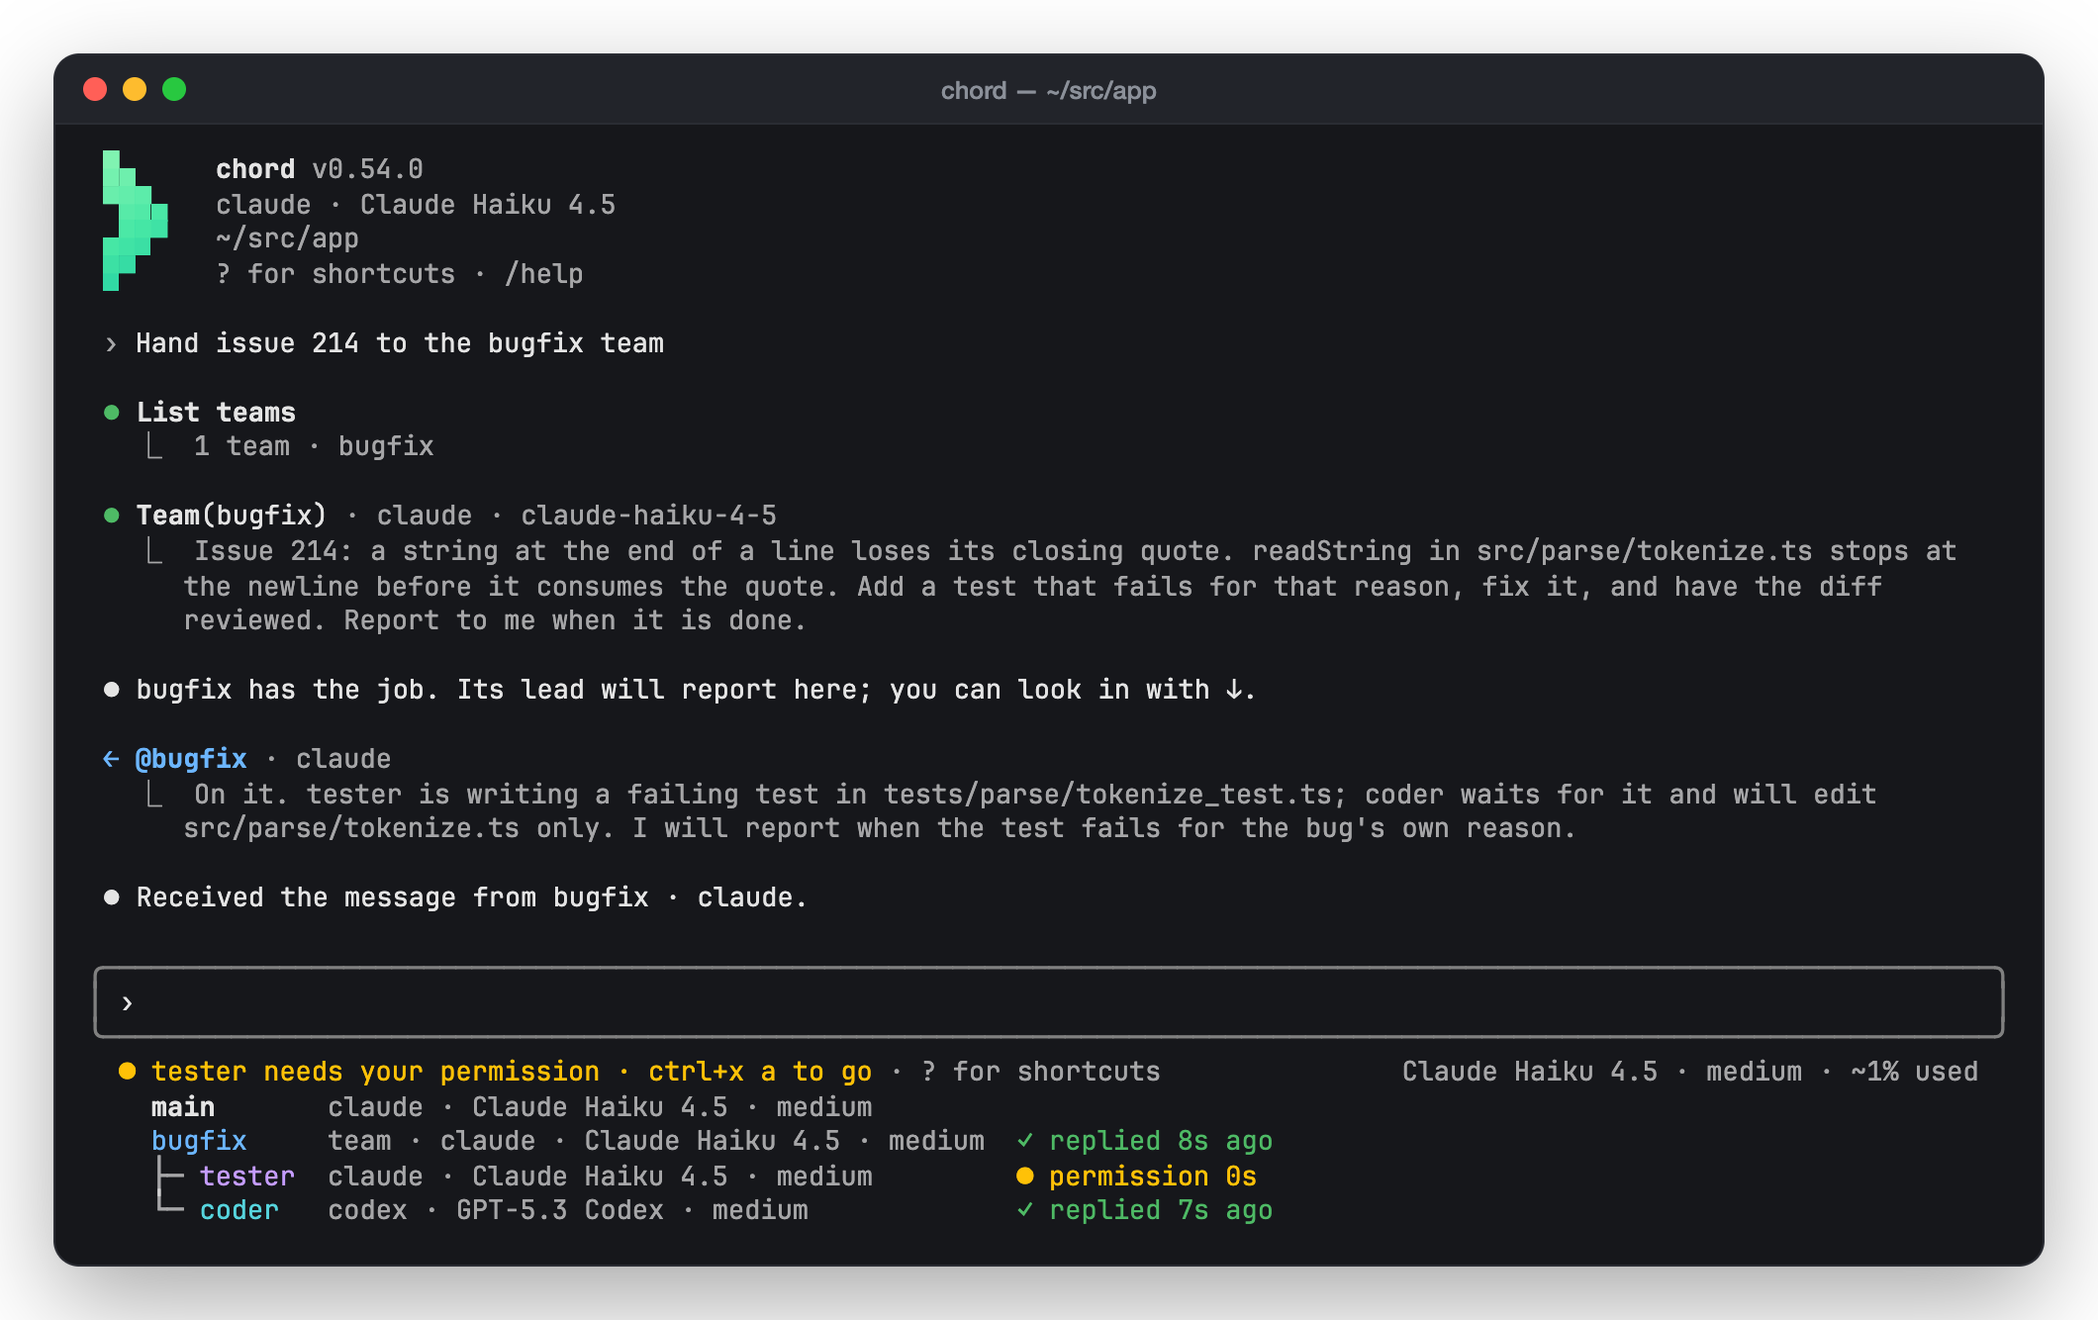
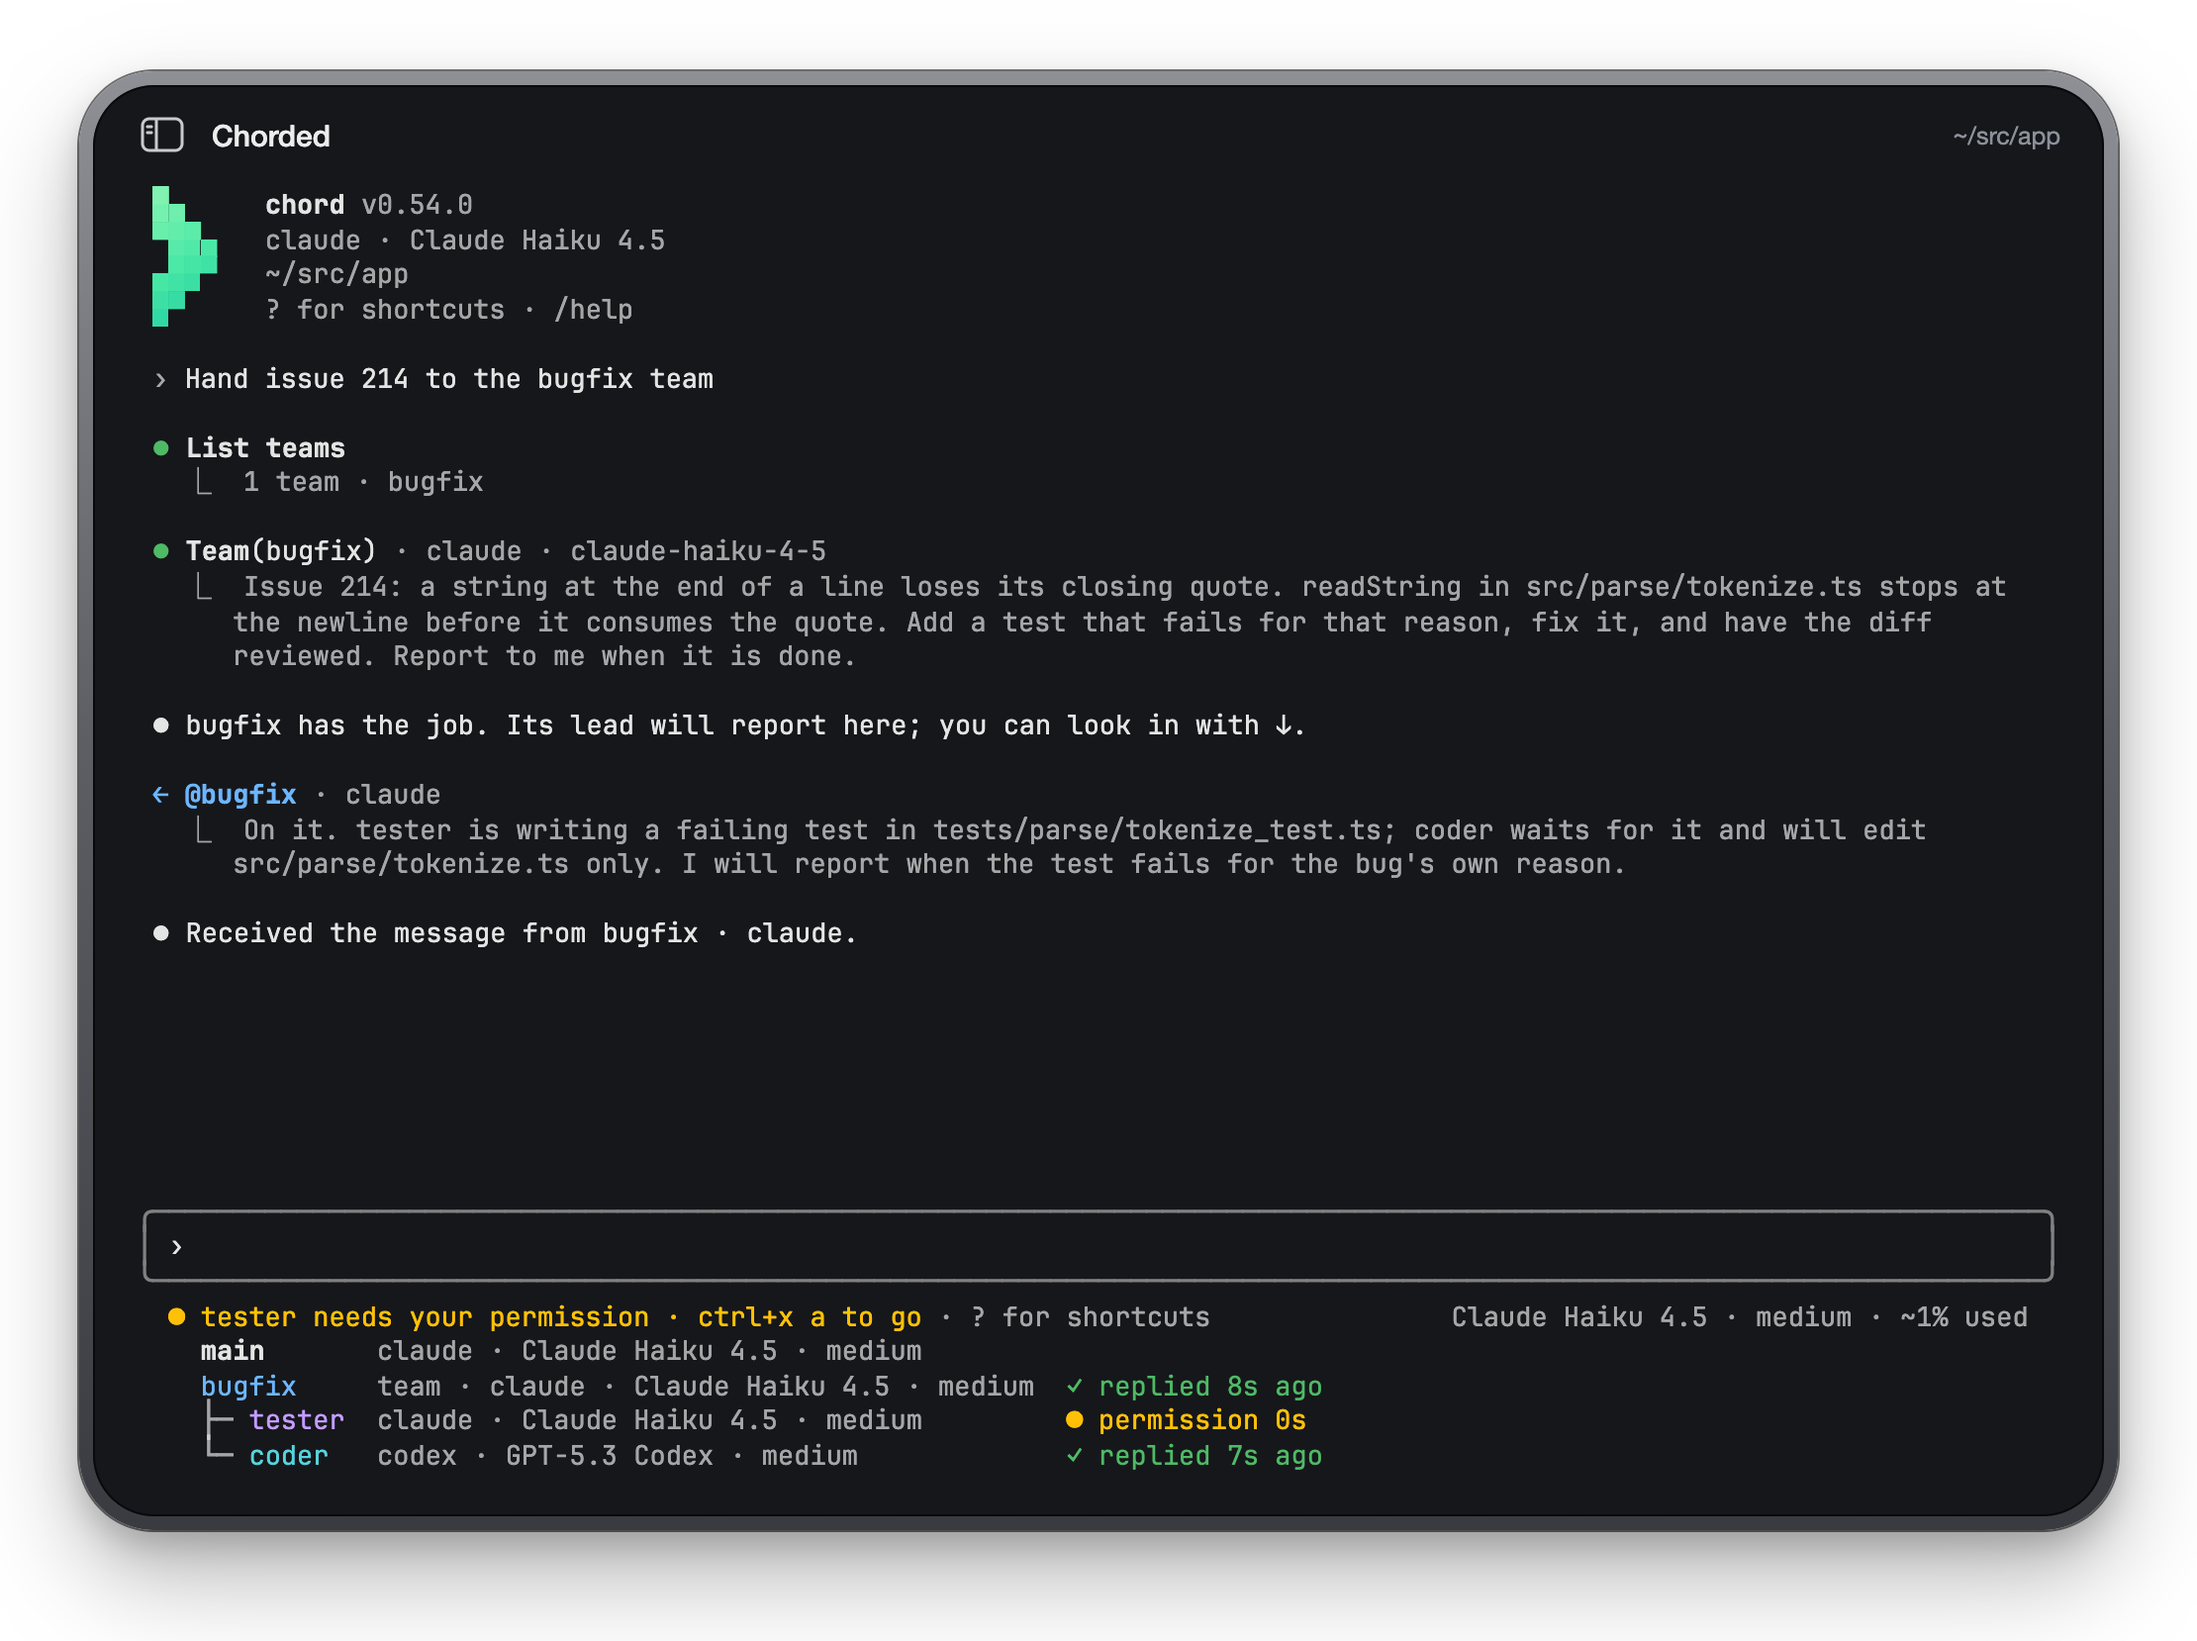
feat(scripts): draw the screenshots in a Chorded pane, all one size
Each shot is framed as Chorded's window, a metal rim around a dark pane
titled Chorded, and taken from a 120×37 terminal that chord lays out
itself, the fewest rows that hold the tallest shot whole, instead of
folding blank rows.

Changed region(s): [[0.0, 0.0307, 0.9962, 1.0]]

diff --git a/scripts/screenshots.ts b/scripts/screenshots.ts
@@ -3,13 +3,14 @@
  *
  *   bun run screenshots [name…]   rewrite docs/images/*.png, or those named
  *
- * Each shot runs chord from source in a tmux session of its own, 120×40, on
+ * Each shot runs chord from source in a tmux session of its own, `COLUMNS`
+ * × `ROWS`, on
  * the fake agent in tests/fixtures/, as `bun run chord:fake` does, types
  * what a person would, waits for the state the shot shows, and reads the
  * screen back with its colours (`capture-pane -e`). The frame is then drawn
- * in a terminal window in Chrome (puppeteer-core) through ansi_up and
- * captured at twice its size. Runs of blank rows above the transcript are
- * folded to one, so a shot is as tall as what it shows.
+ * in a Chorded terminal pane in Chrome (puppeteer-core) through ansi_up and
+ * captured at twice its size. chord lays the screen out itself, so every
+ * shot is the same size; `ROWS` is the fewest that hold the tallest whole.
  *
  * chord runs in a home of its own under a temporary directory, so nothing
  * of the person's settings, records or teams reaches a shot. There the
@@ -28,7 +29,6 @@ import { setTimeout as sleep } from 'node:timers/promises';
 import { AnsiUp } from 'ansi_up';
 import puppeteer from 'puppeteer-core';
 import { quote } from 'shell-quote';
-import stripAnsi from 'strip-ansi';
 
 /** What a shot does to the window before it is taken. */
 type Step =
@@ -141,6 +141,9 @@ const IMAGES = join(ROOT, 'docs', 'images');
 const CHROME =
   process.env['CHROME'] ??
   '/Applications/Google Chrome.app/Contents/MacOS/Google Chrome';
+/** The terminal's size; `proposal` is the tallest shot, and fits in this. */
+const COLUMNS = 120;
+const ROWS = 37;
 const SOCKET = `chord-screenshots-${String(process.pid)}`;
 
 /** The terminal's own colours behind and in front of chord. */
@@ -250,9 +253,9 @@ async function capture(shot: Shot): Promise<string> {
       '-s',
       'shot',
       '-x',
-      '120',
+      String(COLUMNS),
       '-y',
-      '40',
+      String(ROWS),
       `exec env ${quote([...env, ...chord])}`,
     );
     tmux('set', '-g', 'default-terminal', 'tmux-256color');
@@ -283,33 +286,14 @@ async function capture(shot: Shot): Promise<string> {
   }
 }
 
-/** Runs of two blank rows or more folded to one, and the ends trimmed. */
-function fold(lines: readonly string[]): string[] {
-  const blank = (line: string): boolean => stripAnsi(line).trim() === '';
-  const kept: string[] = [];
-  let run = 0;
-
-  for (const line of lines) {
-    run = blank(line) ? run + 1 : 0;
-
-    if (run < 2) {
-      kept.push(line);
-    }
-  }
-
-  while (kept.length > 0 && blank(kept.at(-1) ?? '')) {
-    kept.pop();
-  }
-
-  return kept;
-}
-
 function page(frame: string): string {
   const ansi = new AnsiUp();
 
   ansi.use_classes = false;
 
-  const rows = fold(frame.replace(/\n$/u, '').split('\n'))
+  const rows = frame
+    .replace(/\n$/u, '')
+    .split('\n')
     .map((line) => `<div class="row">${ansi.ansi_to_html(line) || ' '}</div>`)
     .join('');
 
@@ -319,37 +303,48 @@ function page(frame: string): string {
   @font-face { font-family: Term; src: local('JetBrains Mono'), local('JetBrainsMono-Regular'); }
   @font-face { font-family: Term; font-weight: bold; src: local('JetBrains Mono Bold'), local('JetBrainsMono-Bold'); }
   html, body { margin: 0; background: transparent; }
-  .page { padding: 28px; display: inline-block; }
+  .page { padding: 36px 40px 56px; display: inline-block; }
+  /* Chorded's window: a metal rim around a dark pane, its corners round. */
+  .rim {
+    padding: 7px; border-radius: 38px;
+    background: linear-gradient(180deg, #8e9095 0%, #5d5f64 45%, #3a3b40 100%);
+    box-shadow:
+      0 0 0 1px rgba(0, 0, 0, 0.55),
+      0 24px 48px rgba(0, 0, 0, 0.28),
+      0 8px 16px rgba(0, 0, 0, 0.18);
+  }
   .window {
     background: ${BACKGROUND};
-    border-radius: 12px;
-    box-shadow: 0 0 0 1px #2a2c33, 0 18px 50px rgba(0, 0, 0, 0.35);
+    border-radius: 31px;
+    box-shadow: inset 0 0 0 1px rgba(0, 0, 0, 0.6);
     overflow: hidden;
   }
   .bar {
-    height: 34px; display: flex; align-items: center; position: relative;
-    background: #22242a; border-bottom: 1px solid #2a2c33;
+    height: 50px; display: flex; align-items: center; gap: 14px;
+    padding: 0 22px 0 24px;
+    font-family: -apple-system, 'SF Pro Text', 'Helvetica Neue', sans-serif;
   }
-  .lights { display: flex; gap: 8px; padding-left: 14px; }
-  .lights i { width: 12px; height: 12px; border-radius: 50%; display: block; }
-  .title {
-    position: absolute; left: 0; right: 0; text-align: center;
-    font: 500 12.5px -apple-system, 'Helvetica Neue', sans-serif; color: #8b9099;
-  }
+  .bar svg { flex: none; }
+  .title { font-size: 15px; font-weight: 500; color: #ececec; }
+  .where { margin-left: auto; font-size: 12.5px; color: #8b9099; }
   .screen {
-    padding: 14px 16px 18px; color: ${FOREGROUND};
+    padding: 2px 22px 22px; color: ${FOREGROUND};
     font: 13.5px/1.3 Term, Menlo, monospace; white-space: pre;
     font-variant-ligatures: none;
   }
   .row { height: 1.3em; }
 </style>
-<div class="page"><div class="window">
+<div class="page"><div class="rim"><div class="window">
   <div class="bar">
-    <div class="lights"><i style="background:#ff5f57"></i><i style="background:#febc2e"></i><i style="background:#28c840"></i></div>
-    <div class="title">chord — ~/src/app</div>
+    <svg width="22" height="18" viewBox="0 0 22 18" fill="none" stroke="#c9cacd" stroke-width="1.5">
+      <rect x="1" y="1" width="20" height="16" rx="3.5"/><line x1="8" y1="1" x2="8" y2="17"/>
+      <line x1="3.5" y1="5" x2="5.5" y2="5" stroke-linecap="round"/><line x1="3.5" y1="8" x2="5.5" y2="8" stroke-linecap="round"/>
+    </svg>
+    <div class="title">Chorded</div>
+    <div class="where">~/src/app</div>
   </div>
   <div class="screen">${rows}</div>
-</div></div>`;
+</div></div></div>`;
 }
 
 const only = new Set(process.argv.slice(2));
